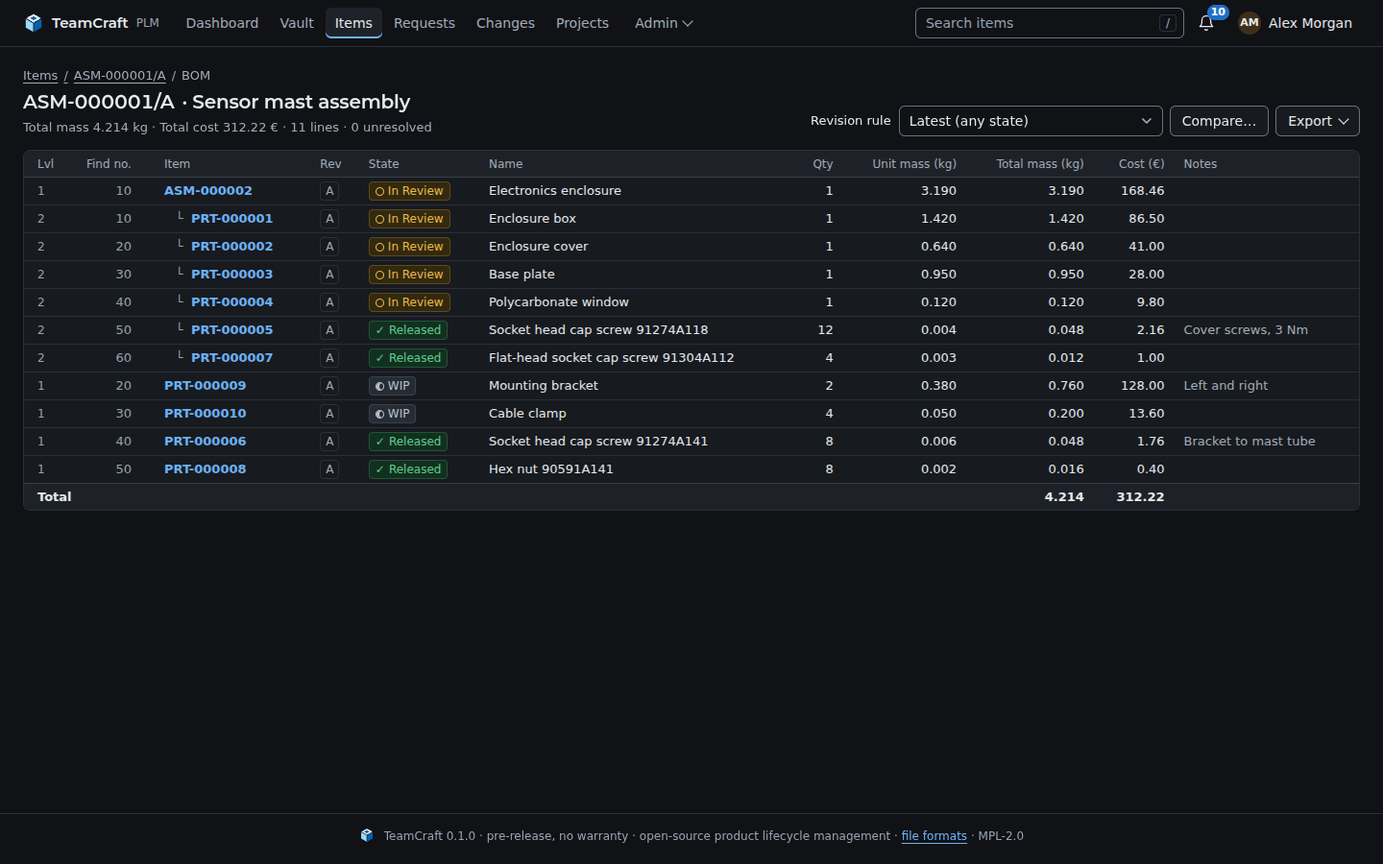
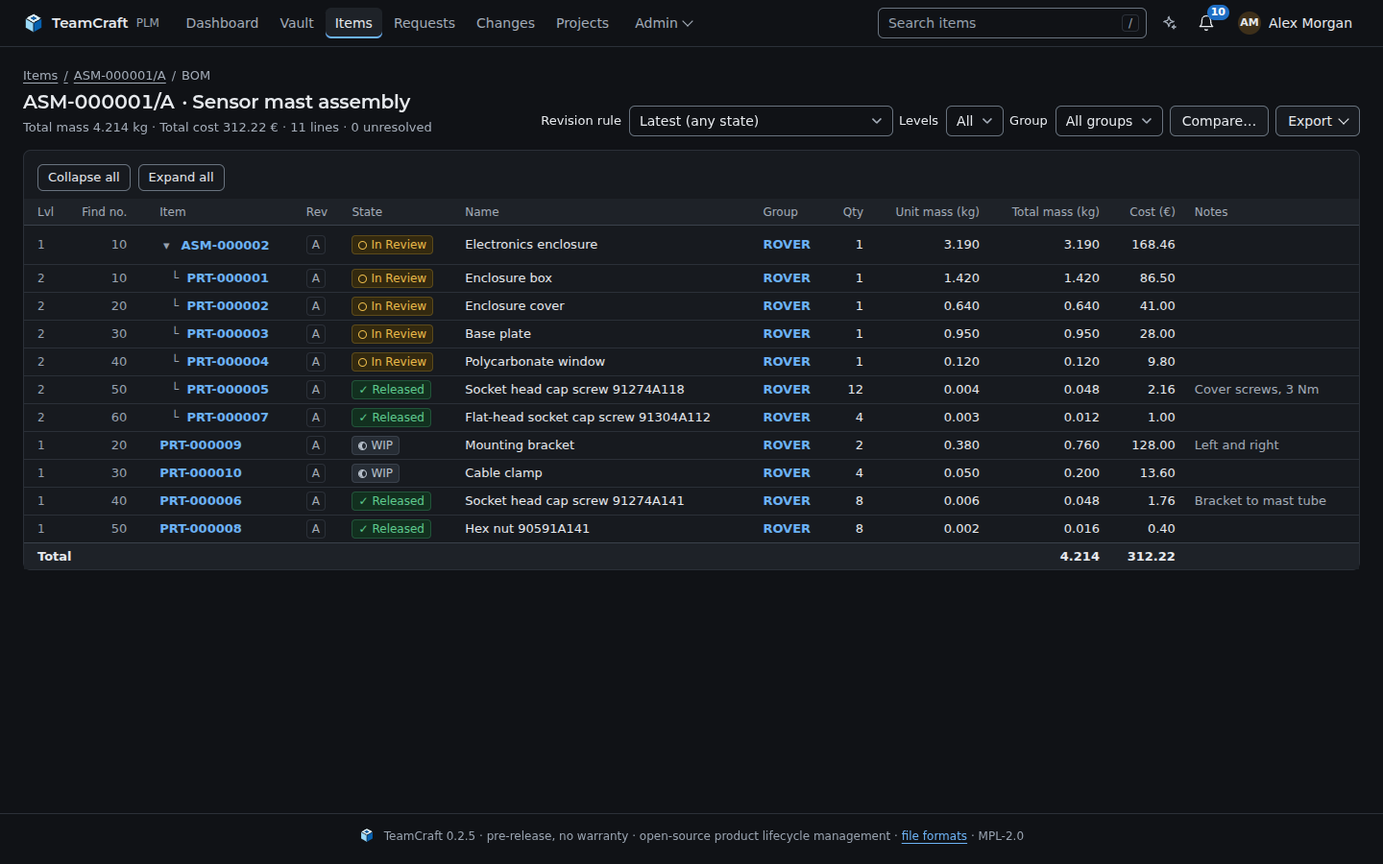
README: fresh screenshots, NX assembly in 3D, stronger images (#157)
* Screenshots: NX assembly, as-built record, simulation results; change review at release readiness

capture_nx seeds an item with the NX assembly of the NIST MTC enclosure and
its eight part files in one revision and captures the composed 3D preview
(nx-assembly-3d) and the files with their rendered thumbnails (nx-files).
capture_as_built records sensor mast unit RVR-0007 with two deviations.
capture_simulation links the basis revision and stores result values with
limits, and simulation-results now shows the basis and the pass/fail table.
change-review is scrolled to release readiness and the impact analysis.

* Screenshots: send an Origin header with the form posts

Since the CSRF origin check (#112) a form post without Origin or Referer is
refused, so the first-start setup of the screenshot run failed.

* Screenshots: change-review scrolled to the affected revisions and impact analysis

Release readiness is shown only before the review, so the change in review
has no #readiness card.

* Screenshots: click the agent's Start button where the navigator shows it now

The Start button moved next to the agent picker, so the old click position
missed it and desktop-agent showed an agent that was not running. The
message box is clicked before typing.

* README: fresh screenshots of 0.2.5, NX assembly in 3D, stronger images

All README images recaptured in one run of the Screenshots workflow. New:
the NX assembly of the NIST enclosure in 3D, the as-built record with its
[…]

diff --git a/README.md b/README.md
@@ -5,9 +5,10 @@
 <h1 align="center">TeamCraft</h1>
 
 <p align="center">
-  <strong>Open-source product lifecycle management, built in pure Rust.</strong><br />
+  <strong>Free, open-source product lifecycle management, built in pure Rust.</strong><br />
+  For early-stage startups and large student teams that have outgrown shared folders.<br />
   Check your CAD data out and in, keep every version, release with reviews,
-  follow changes through assemblies and see STEP, mesh and point-cloud models
+  follow changes through assemblies and see STEP, NX, mesh and point-cloud models
   in 3D – in the browser, in the desktop app or through the REST API.<br />
   <em>Work in progress: an open-source alternative to Siemens Teamcenter.</em>
 </p>
@@ -37,6 +38,7 @@
   <a href="https://rudalabs.github.io/TeamCraft/">Documentation</a> ·
   <a href="#download">Download</a> ·
   <a href="#quick-start">Quick start</a> ·
+  <a href="#enterprise-management">Enterprise management</a> ·
   <a href="https://rudalabs.github.io/TeamCraft/guide/tour.html">Feature tour</a> ·
   <a href="https://rudalabs.github.io/TeamCraft/reference/formats.html">File formats</a> ·
   <a href="https://rudalabs.github.io/TeamCraft/reference/api.html">REST API</a> ·
@@ -62,6 +64,29 @@
 > and no liability for any damage or data loss. See sections 6 and 7 of the
 > [MPL-2.0](LICENSE).
 
+## Who it is for
+
+TeamCraft is free of charge and open source (MPL-2.0): no licence fees, no
+seat counts, no vendor lock-in, and the data stays in your own PostgreSQL
+database and file vault. It is made for two kinds of teams that need to
+professionalise their PLM / PDM before they can afford, or justify, a
+commercial system:
+
+- **Early-stage hardware startups** – the first customer, auditor or investor
+  asks which revision was delivered, who approved it and what changed since.
+  TeamCraft gives you released revisions, change orders with reviews, BOMs and
+  an audit trail from day one, on one server you run yourself.
+- **Large student organisations** – racing, rocketry, satellite, robotics and
+  similar teams with dozens to hundreds of members, a new generation every
+  year and real engineering hand-overs. Knowledge stays in the system instead
+  of in the inbox of last year's lead: what was built, from which revision,
+  with which simulation results and which deviations.
+
+In both cases, "professionalise" means the same things: check-out instead of
+overwriting each other's files, revisions and releases instead of
+`final_v3_really_final.step`, reviewed change orders, traceable BOMs, and
+onboarding where new members sign in with the accounts they already have.
+
 ## What works
 
 Everything below works end to end today and is covered by unit tests and
@@ -77,11 +102,11 @@ end-to-end tests against a real PostgreSQL.
 
 **Previews and search**
 
-- **3D preview** – STEP, NX parts, STL, OBJ, PLY, 3MF, glTF, point clouds and more in the browser, converted on the server, no plug-ins.
-- **Native CAD thumbnails** – the preview images stored in Inventor, Solid Edge, NX and SolidWorks files.
+- **3D preview** – STEP, NX parts and assemblies (put together from their part files, hidden layers left out), STL, OBJ, PLY, 3MF, glTF, point clouds and more in the browser, converted on the server, no plug-ins.
+- **CAD thumbnails** – the preview images stored in Inventor, Solid Edge and SolidWorks files; NX parts and assemblies get a sharper thumbnail rendered from their 3D preview.
 - **FEA/CFD results** – VTK, VTU/VTP and CalculiX results coloured by a result field, with legend.
 - **Search** – ranked full-text search over numbers, names, materials, file names and file contents.
-- **Similar parts** – finds existing parts of similar 3D shape and size, with the reason for each hit.
+- **Similar parts** – on every revision with a STEP or mesh file, existing parts of similar 3D shape and size, with the reason for each hit.
 
 **Structure**
 
@@ -113,16 +138,44 @@ end-to-end tests against a real PostgreSQL.
 - **Custom attributes** – vendor, order number, RoHS … as text, number, yes/no or choice list per item type, versioned with each revision; in-house, purchased and standard parts; search by attribute value.
 - **Notifications** – in-app, e-mail and Mattermost; watch items, changes and change requests.
 - **Event webhooks** – signed JSON for releases, changes and simulation results, retried with backoff.
-- **Audit log** – every modification with user, time and details.
+- **Audit log** – every modification and every sign-in (password, SSO, failed attempts) with user, time and details; repeated failed sign-ins are slowed down.
+- **Branding** – replace the wide and the square logo under *Admin → Branding*; the desktop app shows them too.
+- **Monitoring** – `/healthz`, `/readyz` and Prometheus metrics at `/metrics` (requests, database pool, outbox backlogs, preview queue), enabled with a token.
 - **Backup and restore** – one command for database and vault (see below).
 
 **Clients and integrations**
 
 - **Web UI** – light and dark design that follows the operating system, plus distribution skins.
-- **Desktop app** – Linux, macOS and Windows client with a local working folder, *Get* of whole assemblies and an import wizard.
+- **Desktop app** – Linux, macOS and Windows client with a local working folder, *Get* of whole assemblies, an import wizard, an Agent view, and an update notice (never installs anything itself).
 - **REST API** – everything the UI does, with personal access tokens.
 - **MCP server** – AI assistants such as Claude Code search, explain BOMs and draft changes with your rights, never approving anything.
 - **Ask TeamCraft (optional)** – a sidebar on every page (web and desktop) that knows which page you are on, keeps your conversation and, with your own key for Anthropic, OpenAI, Azure OpenAI or any OpenAI-compatible service, or a local model (Ollama, vLLM), drafts release notes and answers questions with your rights, read-only by default.
+
+## Enterprise management
+
+The features an IT department or a team lead asks about before rolling a
+system out to an organisation. All of them are part of the free release –
+there is no separate enterprise edition.
+
+| Area | What TeamCraft offers |
+|------|-----------------------|
+| **Identity and access** | Single sign-on with any OpenID Connect provider (Keycloak, Entra ID, Google, Authentik …), IdP groups mapped to roles and project groups; viewer / editor / admin roles; [restricted project groups](https://rudalabs.github.io/TeamCraft/admin/permissions.html) that stay invisible to outsiders, even inside BOMs, search, notifications and the AI assistant. |
+| **Traceability** | An [audit log](https://rudalabs.github.io/TeamCraft/admin/operations.html) of every change and every sign-in, failed attempts included; four-eyes change orders where authors cannot approve their own work; released data that never changes; as-built records per serial number. |
+| **Company AI instead of shadow AI** | *Ask TeamCraft* runs on the AI service the organisation chooses – Anthropic, OpenAI, Azure OpenAI, any OpenAI-compatible endpoint or a local model (Ollama, vLLM). The key stays on the server and never reaches a browser or the desktop app; the assistant works with each user's rights, read-only by default, and every question is audited (without its content). |
+| **Operations** | [Docker install](https://rudalabs.github.io/TeamCraft/admin/docker.html) with one script, [backup and restore](https://rudalabs.github.io/TeamCraft/admin/operations.html#backups) of database and vault in one command, `/healthz` and `/readyz` probes, [Prometheus metrics](https://rudalabs.github.io/TeamCraft/admin/operations.html#metrics-for-prometheus), documented [upgrades](https://rudalabs.github.io/TeamCraft/admin/upgrade.html) and a [support policy](https://rudalabs.github.io/TeamCraft/admin/support-policy.html). |
+| **Integration** | REST API, an MCP server for AI tools, signed [event webhooks](https://rudalabs.github.io/TeamCraft/admin/webhooks.html), e-mail and Mattermost notifications. |
+| **Your look** | Your own logos under *Admin → Branding*, shown in the web UI and the desktop app. |
+| **Configuration** | Everything through environment variables, each also as `*_FILE` for Docker or Kubernetes secrets – see the [configuration reference](https://rudalabs.github.io/TeamCraft/admin/configuration.html). |
+
+**In progress** – open pull requests and issues, not in a release yet:
+
+- **Company AI only** ([#154](https://github.com/rudalabs/TeamCraft/pull/154)) – administrators can switch off the desktop app's own local AI agents, so employees use the organisation's configured AI instead of their own tools (data-loss prevention).
+- **Need-to-know projects** ([#151](https://github.com/rudalabs/TeamCraft/issues/151)) – stricter access and interface control per project group.
+- **Ownership and approval rules** ([#152](https://github.com/rudalabs/TeamCraft/issues/152)) – wider separation of duties, review policies per project group, sign-off and handover.
+- **Scoped access tokens** – personal access tokens limited to read-only or MCP-only use.
+
+TeamCraft is a community project without commercial support or a service
+level agreement; see the warning above.
 
 ## Download
 
@@ -160,44 +213,38 @@ the web UI with headless Chrome, TeamCraft Desktop on a virtual X display.
 <table>
   <tr>
     <td width="50%"><a href="media/screenshots/vault-explorer.png"><img src="media/screenshots/vault-explorer.png" alt="Vault explorer: the project group ROVER as a folder, items with state and lock owner, and the detail pane of the electronics enclosure with its files" /></a><br /><sub><b>Vault explorer</b> – project groups, lock owners, one-click check-out</sub></td>
-    <td width="50%"><a href="media/screenshots/revision-files.png"><img src="media/screenshots/revision-files.png" alt="Files of the mounting bracket revision: STEP, Inventor, SolidWorks and NX files with their formats, the preview image stored in the Inventor file, the 3D button of the STEP file and a text file in version 2" /></a><br /><sub><b>Revision files</b> – formats, versions and embedded CAD previews</sub></td>
+    <td width="50%"><a href="media/screenshots/revision-files.png"><img src="media/screenshots/revision-files.png" alt="Files of the mounting bracket revision: STEP, Inventor, SolidWorks and NX files with formats, previews and versions, and below them the similar existing parts found by 3D shape" /></a><br /><sub><b>Revision files</b> – formats, versions, CAD previews and similar existing parts</sub></td>
   </tr>
   <tr>
-    <td width="50%"><a href="media/screenshots/viewer-3d.png"><img src="media/screenshots/viewer-3d.png" alt="3D viewer in the browser showing the STEP model of the NIST CTC-01 mounting bracket" /></a><br /><sub><b>3D viewer</b> – STEP tessellated on the server, drawn with WebGL</sub></td>
+    <td width="50%"><a href="media/screenshots/nx-assembly-3d.png"><img src="media/screenshots/nx-assembly-3d.png" alt="3D viewer in the browser showing the NX assembly of the NIST MTC enclosure, put together from its nine NX part files" /></a><br /><sub><b>NX in 3D</b> – parts from their JT data, assemblies put together from their parts</sub></td>
     <td width="50%"><a href="media/screenshots/bom.png"><img src="media/screenshots/bom.png" alt="Multi-level bill of materials of the sensor mast assembly with quantities, states and mass and cost roll-up" /></a><br /><sub><b>Multi-level BOM</b> – revision rules, mass and cost roll-up</sub></td>
   </tr>
   <tr>
-    <td width="50%"><a href="media/screenshots/change-review.png"><img src="media/screenshots/change-review.png" alt="Change order in review: affected revisions, reviewers with one approval and one pending decision, and the impact analysis" /></a><br /><sub><b>Change order</b> – four-eyes review and impact analysis</sub></td>
-    <td width="50%"><a href="media/screenshots/revision.png"><img src="media/screenshots/revision.png" alt="Revision page of the mounting bracket: attributes, lifecycle state, check-out lock and actions" /></a><br /><sub><b>Revision</b> – attributes, lifecycle and lock</sub></td>
+    <td width="50%"><a href="media/screenshots/change-review.png"><img src="media/screenshots/change-review.png" alt="Change order in review: the affected revisions and the impact analysis listing the assemblies that depend on them" /></a><br /><sub><b>Change order</b> – affected revisions and impact analysis</sub></td>
+    <td width="50%"><a href="media/screenshots/as-built.png"><img src="media/screenshots/as-built.png" alt="As-built record of sensor mast unit RVR-0007: the design revision it was built to, serial number and two deviations, one accepted as is and one still open" /></a><br /><sub><b>As-built records</b> – serial number, as-built BOM and deviations</sub></td>
   </tr>
   <tr>
-    <td width="50%"><a href="media/screenshots/notifications.png"><img src="media/screenshots/notifications.png" alt="Notifications: review requests, approvals and the release of the standard fasteners" /></a><br /><sub><b>Notifications</b> – in-app, e-mail and Mattermost</sub></td>
+    <td width="50%"><a href="media/screenshots/simulation-cfd-3d.png"><img src="media/screenshots/simulation-cfd-3d.png" alt="Made-up CFD result of the flow around a cylindrical mast fairing in the 3D viewer, coloured by velocity magnitude with a colour legend and field selector" /></a><br /><sub><b>FEA/CFD results in 3D</b> – VTK and CalculiX results coloured by field</sub></td>
+    <td width="50%"><a href="media/screenshots/simulation-results.png"><img src="media/screenshots/simulation-results.png" alt="A static analysis linked to the mounting bracket revision it analysed, with result values, limits and pass or fail" /></a><br /><sub><b>Simulation results</b> – linked to the analysed revision, with limits and pass/fail</sub></td>
+  </tr>
+  <tr>
+    <td width="50%"><a href="media/screenshots/assistant-sidebar.png"><img src="media/screenshots/assistant-sidebar.png" alt="The Ask TeamCraft sidebar open on the mounting bracket revision, with the page it knows about shown as a context chip" /></a><br /><sub><b>Ask TeamCraft</b> – knows the page you are on, works with your rights</sub></td>
+    <td width="50%"><a href="media/screenshots/restricted-bom.png"><img src="media/screenshots/restricted-bom.png" alt="The BOM of the sensor test rig as seen by a user outside a restricted project group: one line shows only as Restricted item, and mass and cost exclude it with a note" /></a><br /><sub><b>Read permissions</b> – restricted groups stay hidden, even inside BOMs</sub></td>
+  </tr>
+  <tr>
+    <td width="50%"><a href="media/screenshots/desktop-home.png"><img src="media/screenshots/desktop-home.png" alt="TeamCraft Desktop start screen: the project group ROVER expanded in the navigator with its items and their states, item statistics and the dependents to check" /></a><br /><sub><b>Desktop app</b> – navigator, statistics and what needs attention</sub></td>
+    <td width="50%"><a href="media/screenshots/desktop-revision.png"><img src="media/screenshots/desktop-revision.png" alt="TeamCraft Desktop: the checked-out mounting bracket revision in a tab with check-in, edit and release actions, its properties, lifecycle and the sub-tabs for files, structure, where used and 3D viewer" /></a><br /><sub><b>Desktop revision tab</b> – check-out to a local workspace, check-in</sub></td>
+  </tr>
+  <tr>
+    <td width="50%"><a href="media/screenshots/desktop-change.png"><img src="media/screenshots/desktop-change.png" alt="TeamCraft Desktop: the enclosure change order in review with the approve and reject form, one approval and one pending reviewer and the affected revisions" /></a><br /><sub><b>Desktop review</b> – four-eyes approval without leaving the app</sub></td>
+    <td width="50%"><a href="media/screenshots/desktop-agent.png"><img src="media/screenshots/desktop-agent.png" alt="TeamCraft Desktop Agent view: a local agent answers What needs my attention with the change order waiting for review and the open change request" /></a><br /><sub><b>Desktop agent</b> – a local AI agent next to your PDM data</sub></td>
+  </tr>
+  <tr>
+    <td width="50%"><a href="media/screenshots/bom-dark.png"><img src="media/screenshots/bom-dark.png" alt="The multi-level bill of materials of the sensor mast assembly in the dark scheme with states, quantities and the mass and cost totals" /></a><br /><sub><b>Dark</b> – follows the system appearance, or pick Light or Dark</sub></td>
     <td width="50%" align="center"><a href="media/screenshots/mobile-dashboard.png"><img src="media/screenshots/mobile-dashboard.png" width="200" alt="The dashboard on a 390 pixel wide phone screen" /></a><br /><sub><b>On the phone</b> – the same pages, responsive</sub></td>
   </tr>
-  <tr>
-    <td width="50%"><a href="media/screenshots/dashboard-dark.png"><img src="media/screenshots/dashboard-dark.png" alt="The dashboard in the dark scheme: the same work lists, statistics and dependents to check on dark surfaces" /></a><br /><sub><b>Dark</b> – follows the system appearance, or pick Light or Dark</sub></td>
-    <td width="50%"><a href="media/screenshots/bom-dark.png"><img src="media/screenshots/bom-dark.png" alt="The multi-level bill of materials of the sensor mast assembly in the dark scheme with states, quantities and the mass and cost totals" /></a><br /><sub><b>Multi-level BOM, dark</b> – every page in both schemes</sub></td>
-  </tr>
-  <tr>
-    <td width="50%"><a href="media/screenshots/assistant.png"><img src="media/screenshots/assistant.png" alt="Ask TeamCraft: the quick action What needs my attention, a free question box, the option to allow drafts and the note that the assistant reads the PDM data with your rights and never approves or releases" /></a><br /><sub><b>Ask TeamCraft</b> – the AI assistant with your rights, read-only by default</sub></td>
-    <td width="50%"><a href="media/screenshots/revision-similar.png"><img src="media/screenshots/revision-similar.png" alt="Similar parts of the mounting bracket: existing parts of similar 3D shape and size, ranked, each with the reason for the hit" /></a><br /><sub><b>Similar parts</b> – "do we already have a part like this?"</sub></td>
-  </tr>
-  <tr>
-    <td width="50%"><a href="media/screenshots/simulation-result-3d.png"><img src="media/screenshots/simulation-result-3d.png" alt="A static analysis result of the mast arm in the 3D viewer, coloured by von Mises stress with a colour legend and field selector" /></a><br /><sub><b>FEA results in 3D</b> – VTK and CalculiX results coloured by field</sub></td>
-    <td width="50%"><a href="media/screenshots/simulation-cfd-3d.png"><img src="media/screenshots/simulation-cfd-3d.png" alt="Made-up CFD result of the flow around a cylindrical mast fairing in the 3D viewer, coloured by velocity magnitude with a colour legend and field selector" /></a><br /><sub><b>CFD results in 3D</b> – velocity and pressure fields</sub></td>
-  </tr>
-  <tr>
-    <td width="50%"><a href="media/screenshots/restricted-bom.png"><img src="media/screenshots/restricted-bom.png" alt="The BOM of the sensor test rig as seen by a user outside a restricted project group: one line shows only as Restricted item, and mass and cost exclude it with a note" /></a><br /><sub><b>Read permissions</b> – restricted groups stay hidden, even inside BOMs</sub></td>
-    <td width="50%"><a href="media/screenshots/desktop-home.png"><img src="media/screenshots/desktop-home.png" alt="TeamCraft Desktop start screen: the project group ROVER expanded in the navigator with its items and their states, item statistics and the dependents to check" /></a><br /><sub><b>Desktop app</b> – navigator, statistics and what needs attention</sub></td>
-  </tr>
-  <tr>
-    <td width="50%"><a href="media/screenshots/desktop-revision.png"><img src="media/screenshots/desktop-revision.png" alt="TeamCraft Desktop: the checked-out mounting bracket revision in a tab with check-in, edit and release actions, its properties, lifecycle and the sub-tabs for files, structure, where used and 3D viewer" /></a><br /><sub><b>Desktop revision tab</b> – check-out to a local workspace, check-in</sub></td>
-    <td width="50%"><a href="media/screenshots/desktop-change.png"><img src="media/screenshots/desktop-change.png" alt="TeamCraft Desktop: the enclosure change order in review with the approve and reject form, one approval and one pending reviewer and the affected revisions" /></a><br /><sub><b>Desktop review</b> – approve or reject without leaving the app</sub></td>
-  </tr>
-  <tr>
-    <td width="50%" align="center" colspan="2"><a href="media/screenshots/desktop-worklist.png"><img src="media/screenshots/desktop-worklist.png" alt="TeamCraft Desktop worklist: the revision checked out by me, the change order waiting for my review and four dependents to check" /></a><br /><sub><b>Desktop worklist</b> – check-outs, reviews and dependents</sub></td>
-  </tr>
 </table>
+
 
 ## Quick start
 

diff --git a/CONTRIBUTING.md b/CONTRIBUTING.md
@@ -145,14 +145,17 @@ always show the same demo data. The script needs a running TeamCraft with an
 **empty** database that listens on localhost. It creates the administrator
 through the first-start page and two editors, the project group ROVER, parts
 and assemblies with the NIST files from `tests/fixtures/cad`, a multi-level
-BOM, a released and a pending change order, check-outs and notifications. It
-then drives headless Chrome through chromedriver's WebDriver API (with `curl`
-and `jq`, no Node or Python) and saves the pages as PNGs: 1440 × 900 for the
-desktop and 390 pixels wide for the phone, each in the light scheme
-(`NAME.png`, the names the README uses) and again in the dark scheme
-(`NAME-dark.png`; Chrome emulates `prefers-color-scheme`, the demo user keeps
-the System skin). The passwords and API tokens are generated for each run
-and never printed.
+BOM, a released and a pending change order, check-outs and notifications,
+and after the main pages a change request, two simulations with results, an
+NX model of the enclosure (the assembly with its eight part files in one
+revision), an as-built unit of the sensor mast with two deviations and a
+restricted project group. It then drives headless Chrome through
+chromedriver's WebDriver API (with `curl` and `jq`, no Node or Python) and
+saves the pages as PNGs: 1440 × 900 for the desktop and 390 pixels wide for
+the phone, each in the light scheme (`NAME.png`, the names the README uses)
+and again in the dark scheme (`NAME-dark.png`; Chrome emulates
+`prefers-color-scheme`, the demo user keeps the System skin). The passwords
+and API tokens are generated for each run and never printed.
 
 With `DESKTOP_APP` set to a built TeamCraft Desktop binary (Linux), the script
 also captures the desktop app, once with *TeamCraft Light* (`desktop-*.png`)
@@ -172,7 +175,10 @@ coordinates in `desktop_run`.
    the script or the workflow. It builds the release binary and the desktop
    app, starts the server against an empty PostgreSQL 17 and runs the script.
 2. Download the `screenshots` artifact of the run (kept for 30 days), for
-   example with `gh run download <run-id> -n screenshots -D media/screenshots`.
+   example with `gh run download <run-id> -n screenshots -D <scratch folder>`.
+   It holds more images than the README shows (the `-dark` variants and
+   extra images for checking); copy only the ones the README uses into
+   `media/screenshots/`.
 3. Look at every image, then commit the PNGs in `media/screenshots/`. The
    workflow never commits anything itself.
 4. Commit the images **in the same pull request** as the README lines that

diff --git a/docs/src/guide/similar-parts.md b/docs/src/guide/similar-parts.md
@@ -12,22 +12,31 @@ reason you can check.
   *extents 118 × 40 × 8 vs 120 × 40 × 8, shape distribution 94 % similar*.
   On a brand-new part (only revision A, in work) the section is called
   *Similar existing parts*: if one fits, reuse it instead of creating a new
-  item. Create the item with its STEP or mesh file and the list appears on
-  the page that opens.
-* **Desktop app**: the revision overview links to the list in the browser.
+  item. It is a card on the page, not a pop-up: it appears whenever the
+  revision has a file it can compare, and stays hidden otherwise. Right
+  after *Items → New item* with a STEP or mesh file the card first says
+  *Comparing the shape … reload the page in a moment* – the page does not
+  refresh itself, reload it once the comparison is done.
+* **Desktop app**: the revision overview has a *Compare the shape in the
+  browser* button that opens this card in the web UI; the app itself shows
+  no list.
 * **REST API**: `GET /api/v1/items/{number}/revisions/{code}/similar`
   ([REST API](../reference/api.md#similar-parts)).
 * **AI assistants**: the MCP tool `find_similar_parts`
   ([MCP server](../reference/mcp.md)); `find_duplicate_files` is its sibling
   for byte-identical copies.
 
-The comparison needs a 3D model with a preview: STEP or a mesh (STL, OBJ,
-PLY, OFF, 3MF, AMF, glTF/GLB, 3DS). Native CAD files are compared through
-their STEP export – attach one. Point clouds are not compared.
+The comparison needs a 3D model with a preview: STEP, a mesh (STL, OBJ,
+PLY, OFF, 3MF, AMF, glTF/GLB, 3DS) or an NX part (`.prt` with its JT
+lightweight representation). Other native CAD files are compared through
+their STEP export – attach one. NX assemblies are not compared (they hold no
+shape of their own), and neither are point clouds. Simulation result files
+(VTK, VTU, VTP, CalculiX FRD) have a 3D preview too and are currently
+compared like parts.
 
 ## How it works
 
-When a 3D file is uploaded (or first shown), the preview process computes a
+When a 3D file is attached or checked in (or first shown), the preview process computes a
 small **shape signature** of its mesh, once per file content:
 
 | Part of the signature  | What it is                                                                                     |
